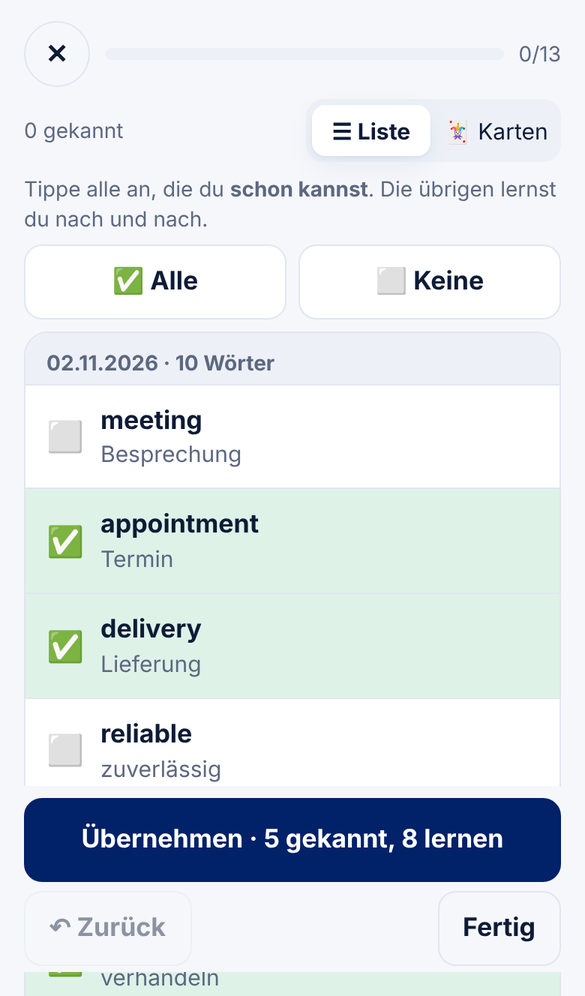
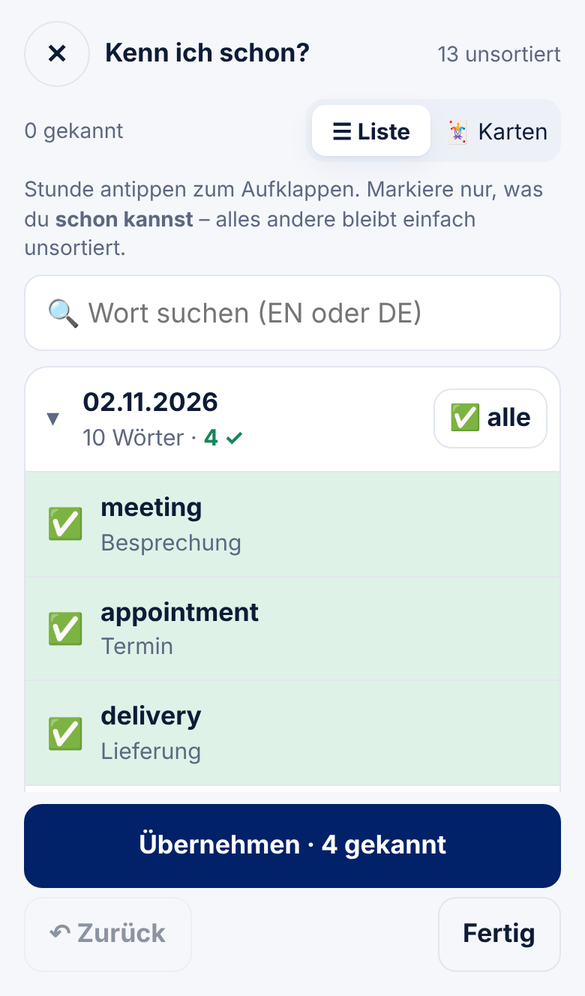
Kenn ich schon?: aufklappbare Übersicht aller Stunden, Suche, nur Markiertes übernehmen (1.20.0)
Claude-Session: https://claude.ai/code/session_01NT1ALs94kcrP3oXjQENRP2

diff --git a/pocketbase/pb_public/index.html b/pocketbase/pb_public/index.html
@@ -146,7 +146,7 @@ details summary{cursor:pointer;font-weight:700;padding:6px 0}
 <script src="pocketbase.umd.js"></script>
 <script>
 'use strict';
-const APP_VERSION='1.19.1 (06.11.2026)';
+const APP_VERSION='1.20.0 (06.11.2026)';
 /* ---------- helpers ---------- */
 const $=(s,r=document)=>r.querySelector(s);
 const $$=(s,r=document)=>[...r.querySelectorAll(s)];
@@ -1261,7 +1261,7 @@ function startSort(opt={}){
   const q=sortItems(opt.lid);
   if(!q.length)return toast(opt.lid?'In dieser Stunde ist schon alles sicher':'Keine ungeübten Wörter zum Vorsortieren');
   freshAudio();
-  S.sort={q,idx:0,hist:[],known:0,show:false,mode:opt.lid?'list':(set().sortMode||'list'),lid:opt.lid||null,sel:new Set(),pageSize:opt.lid?q.length:SORT_PAGE};
+  S.sort={q,idx:0,hist:[],known:0,show:false,mode:opt.lid?'list':(set().sortMode||'list'),lid:opt.lid||null,sel:new Set(),pageSize:opt.lid?q.length:SORT_PAGE,selK:new Set(),open:new Set(),qry:''};
   if(opt.lid)q.forEach((_,i)=>S.sort.sel.add(i)); // ganze Stunde: alles vormarkiert, nur Unbekanntes abwählen
   render();
 }
@@ -1281,7 +1281,45 @@ function sortApply(){
 function sortUndo(){
   const s=S.sort;const h=s.hist.pop();if(!h)return;
   for(const [lid,wid,old] of h.touched.slice().reverse()){if(old)S.progress[lid].w[wid]=old;else delete S.progress[lid].w[wid];Store.saveProgress(lid)}
-  s.known-=h.known;s.idx-=h.count;s.sel=new Set(h.sel||[]);s.show=false;render();
+  s.known-=h.known;
+  if(h.selK){s.q=sortItems();s.idx=0;s.selK=new Set(h.selK);render();return}
+  s.idx-=h.count;s.sel=new Set(h.sel||[]);s.show=false;render();
+}
+/* Übersicht aller Stunden (aufklappbar) – nur markierte Wörter werden übernommen */
+const sKey=it=>it.lid+'|'+it.w.id;
+function sortGroups(s){
+  const by=new Map();const q=normAns(s.qry||'','de');
+  for(const it of s.q){if(q&&!(normAns(it.w.en,'en').includes(q)||normAns(it.w.de,'de').includes(q)||it.w.en.toLowerCase().includes(q)))continue;
+    if(!by.has(it.lid))by.set(it.lid,[]);by.get(it.lid).push(it)}
+  return lessonsSorted().filter(l=>by.has(l.id)).map(l=>({l,items:by.get(l.id)}));
+}
+function sortAccHtml(s){
+  const gs=sortGroups(s);if(!gs.length)return `<p class="muted center" style="padding:20px 0">${s.qry?'Nichts gefunden':'Keine Wörter mehr zum Sortieren'}</p>`;
+  return gs.map(({l,items})=>{const open=s.qry||s.open.has(l.id);const k=items.filter(it=>s.selK.has(sKey(it))).length;const all=k===items.length;
+    return `<div class="list" style="margin-bottom:8px">
+      <div class="li" style="padding:0;min-height:52px;gap:0"><button class="grow" data-act="sortopen" data-v="${l.id}" style="all:unset;flex:1;min-width:0;padding:12px 14px;cursor:pointer;display:flex;align-items:center;gap:10px">
+        <span style="width:14px;flex:none;color:var(--muted)">${open?'▾':'▸'}</span><span style="min-width:0"><div class="en">${esc(l.name)}</div><div class="de">${items.length} ${items.length===1?'Wort':'Wörter'}${k?` · <b style="color:var(--ok)">${k} ✓</b>`:''}</div></span></button>
+        <button class="btn ghost" style="min-height:40px;margin-right:8px;padding:6px 10px;flex:none" data-act="sortlall" data-v="${l.id}">${all?'⬜ keine':'✅ alle'}</button></div>
+      ${open?items.map(it=>{const on=s.selK.has(sKey(it));return `<button class="li" data-act="sortk" data-v="${sKey(it)}" style="min-height:50px;${on?'background:var(--ok-soft)':''}"><span style="font-size:20px;width:24px;flex:none">${on?'✅':'⬜'}</span><span class="grow" style="min-width:0"><div class="en">${esc(it.w.en)}</div><div class="de">${esc(it.w.de)}</div></span></button>`}).join(''):''}
+    </div>`}).join('');
+}
+function sortFootHtml(s){const n=s.selK.size;
+  return `<button class="btn pri full" style="min-height:56px" data-act="sortapplyk" ${n?'':'disabled'}>${n?`Übernehmen · ${n} gekannt`:'Tippe an, was du schon kannst'}</button>
+    <div class="row" style="margin-top:6px"><button class="btn ghost" data-act="sortundo" ${s.hist.length?'':'disabled'}>↶ Zurück</button><div class="grow"></div><button class="btn ghost" data-act="sortend">Fertig</button></div>`}
+function sortAccUpdate(){const s=S.sort;const a=$('#sortacc'),f=$('#sortfoot');if(!a||!f)return render();a.innerHTML=sortAccHtml(s);f.innerHTML=sortFootHtml(s)}
+function viewSortAcc(s){
+  return `<div class="ses">${sortHead(s)}
+    <p class="small muted" style="margin:0 0 8px">Stunde antippen zum Aufklappen. Markiere nur, was du <b>schon kannst</b> – alles andere bleibt einfach unsortiert.</p>
+    <input class="t" id="sortq" type="search" placeholder="🔍 Wort suchen (EN oder DE)" value="${esc(s.qry||'')}" style="margin-bottom:10px" autocomplete="off">
+    <div id="sortacc">${sortAccHtml(s)}</div>
+    <div id="sortfoot" style="position:sticky;bottom:-16px;background:var(--bg);padding:8px 0 calc(16px + env(safe-area-inset-bottom));margin-bottom:-16px">${sortFootHtml(s)}</div>
+  </div>`;
+}
+function sortApplyK(){
+  const s=S.sort;const touched=[];let k=0;
+  for(const it of s.q)if(s.selK.has(sKey(it))){touched.push(...setProg(it.lid,it.w.id,knownProg()));k++}
+  if(!k)return;s.hist.push({touched,known:k,selK:[...s.selK]});s.known+=k;s.selK=new Set();s.q=sortItems();s.idx=0;
+  Store.flushProgress();toast(`${k} Wörter als gekannt markiert`);const el=$('.ses'),y=el?el.scrollTop:0;render();const e2=$('.ses');if(e2)e2.scrollTop=y;
 }
 function sortDone(s){
   Store.flushProgress();const done=s.idx;
@@ -1292,12 +1330,14 @@ function sortDone(s){
 }
 function sortHead(s){
   const l=s.lid&&S.lessons[s.lid];
-  return `<div class="row" style="padding:14px 0 4px"><button class="btn icon ghost" data-act="sortend" aria-label="Beenden">✕</button><div class="prog"><i style="width:${s.idx/s.q.length*100}%"></i></div><span class="small muted">${s.idx}/${s.q.length}</span></div>
+  const acc=s.mode==='list'&&!s.lid;
+  return `<div class="row" style="padding:14px 0 4px"><button class="btn icon ghost" data-act="sortend" aria-label="Beenden">✕</button>${acc?`<div class="grow"><b>Kenn ich schon?</b></div><span class="small muted">${s.q.length} unsortiert</span>`:`<div class="prog"><i style="width:${s.idx/s.q.length*100}%"></i></div><span class="small muted">${s.idx}/${s.q.length}</span>`}</div>
     <div class="row" style="margin:4px 0 8px"><div class="small muted grow">${s.known} gekannt${l?' · '+esc(l.name):''}</div>
     ${s.lid?'':`<div class="seg" style="width:170px">${[['list','☰ Liste'],['card','🃏 Karten']].map(([v,t])=>`<button data-act="sortmode" data-v="${v}" class="${s.mode===v?'on':''}" style="min-height:34px;padding:4px">${t}</button>`).join('')}</div>`}</div>`;
 }
 function viewSort(){
   const s=S.sort;if(s.idx>=s.q.length)return sortDone(s);
+  if(s.mode==='list'&&!s.lid)return viewSortAcc(s);
   return s.mode==='list'?viewSortList(s):viewSortCard(s);
 }
 function viewSortList(s){
@@ -1311,7 +1351,7 @@ function viewSortList(s){
     <p class="small muted" style="margin:0 0 8px">${s.lid?'Alle Wörter sind markiert – tippe die an, die du <b>noch nicht</b> kannst.':'Tippe alle an, die du <b>schon kannst</b>. Die übrigen lernst du nach und nach.'}</p>
     <div class="row" style="gap:8px;margin-bottom:8px"><button class="btn grow" style="min-height:42px" data-act="sortall">✅ Alle</button><button class="btn grow" style="min-height:42px" data-act="sortnone">⬜ Keine</button></div>
     <div class="list">${rows}</div>
-    <div style="position:sticky;bottom:0;background:var(--bg);padding:8px 0 4px">
+    <div style="position:sticky;bottom:-16px;background:var(--bg);padding:8px 0 calc(16px + env(safe-area-inset-bottom));margin-bottom:-16px">
       <button class="btn pri full" style="min-height:56px" data-act="sortapply">Übernehmen · ${nSel} gekannt${s.lid?'':`, ${n-nSel} lernen`}</button>
       <div class="row" style="margin-top:6px"><button class="btn ghost" data-act="sortundo" ${s.hist.length?'':'disabled'}>↶ Zurück</button><div class="grow"></div><button class="btn ghost" data-act="sortend">Fertig</button></div></div>
   </div>`;
@@ -1765,7 +1805,8 @@ PA.addEventListener('loadedmetadata',plTick);
   if('mediaSession' in navigator)try{navigator.mediaSession.playbackState=PA.paused?'paused':'playing'}catch(e){}}));
 PA.addEventListener('ended',()=>{const P=S.player;if(!P||P.loading||PA.src.startsWith('data:'))return;
   if(P.idx<P.q.length-1){P.idx++;plLoad(true)}else if(P.loop){P.idx=0;if(P.q.length===1){PA.currentTime=0;PA.play().catch(()=>{})}else plLoad(true)}else render()});
-document.addEventListener('input',e=>{if(e.target.id==='plpos'&&PA.duration)PA.currentTime=e.target.value/1000*PA.duration});
+document.addEventListener('input',e=>{if(e.target.id==='sortq'&&S.sort){S.sort.qry=e.target.value.trim();sortAccUpdate();return}
+  if(e.target.id==='plpos'&&PA.duration)PA.currentTime=e.target.value/1000*PA.duration});
 document.addEventListener('wheel',e=>{if(e.target.closest&&e.target.closest('#pltx'))plScrollAt=Date.now()},{passive:true});
 document.addEventListener('touchmove',e=>{if(e.target.closest&&e.target.closest('#pltx'))plScrollAt=Date.now()},{passive:true});
 
@@ -1878,7 +1919,11 @@ document.addEventListener('click',async e=>{
     case 'sortall':{const s=S.sort;for(let i=s.idx;i<Math.min(s.q.length,s.idx+s.pageSize);i++)s.sel.add(i);const y=$('.ses').scrollTop;render();$('.ses').scrollTop=y;break}
     case 'sortnone':{const s=S.sort;for(let i=s.idx;i<s.idx+s.pageSize;i++)s.sel.delete(i);const y=$('.ses').scrollTop;render();$('.ses').scrollTop=y;break}
     case 'sortapply':sortApply();break;
-    case 'sortmode':{S.sort.mode=v;S.sort.show=false;const st=set();if(st.sortMode!==v){st.sortMode=v;Store.saveMeta('settings',st)}render();break}
+    case 'sortapplyk':sortApplyK();break;
+    case 'sortopen':{const o=S.sort.open;if(o.has(v))o.delete(v);else o.add(v);sortAccUpdate();break}
+    case 'sortk':{const k=S.sort.selK;if(k.has(v))k.delete(v);else k.add(v);sortAccUpdate();break}
+    case 'sortlall':{const s=S.sort;const g=sortGroups(s).find(x=>x.l.id===v);if(!g)break;const keys=g.items.map(sKey);const all=keys.every(k=>s.selK.has(k));keys.forEach(k=>all?s.selK.delete(k):s.selK.add(k));if(!all&&!s.qry)s.open.add(v);sortAccUpdate();break}
+    case 'sortmode':{if(S.sort.mode!==v){S.sort.q=sortItems();S.sort.idx=0;S.sort.hist=[];S.sort.selK=new Set()}S.sort.mode=v;S.sort.show=false;const st=set();if(st.sortMode!==v){st.sortMode=v;Store.saveMeta('settings',st)}render();break}
     case 'lessonsort':startSort({lid:S.view.lesson});break;
     case 'probe':startProbe(S.view.lesson);break;
     case 'probeans':probeAnswer(v==='1');break;

diff --git a/README.md b/README.md
@@ -98,7 +98,7 @@ Ein selbst gehosteter Vokabeltrainer fürs Handy, gemacht für Englischkurse: Vo
 - **KI-Stimme (Piper)** für jedes Wort, erzeugt auf deinem Server. 7 frei lizenzierte Stimmen zur Wahl (britisch/amerikanisch, weiblich/männlich) mit **Hörprobe**. Beim Üben bevorzugt *Lehrer* oder *KI* – der zweite Knopf spielt jeweils die andere Stimme.
 - **🏷 Themen** (Technik & Kabel, Vertrieb & Kunden, Meetings, Zahlen & Wirtschaft, Reisen, Sport & Freizeit, Gefühle & Charakter, Gesellschaft, Alltag, Sätze & Grammatik): beim Üben filtern; neue Stunden per **„Themen holen“** über Claude zuordnen.
 - **⚡ Kenn ich schon?** Große Wortbestände schnell vorsortieren – nach Stunden gruppiert:
-  - **Liste** (Standard): 20 Wörter pro Seite, Überschrift je Stunde. Gekannte antippen oder **✅ Alle** und nur die unbekannten wieder abwählen, dann *Übernehmen*. Gekannte kommen erst in 30 Tagen zur Kontrolle.
+  - **Liste** (Standard): alle Stunden als aufklappbare Übersicht mit Wortzahl – auch die ältesten sind direkt erreichbar. Gekannte Wörter antippen oder pro Stunde **✅ alle**, dann *Übernehmen*. Nur Markiertes wird übernommen, der Rest bleibt unsortiert (jederzeit weitermachen). Mit **Suchfeld** (englisch oder deutsch) über alle Stunden. Gekannte kommen erst in 30 Tagen zur Kontrolle.
   - **Karten**: ein Wort nach dem anderen – Knopf oder **wischen** (→ kenn ich, ← lernen).
   - In jeder Stunde: **✓ Als gekannt markieren** (alle Wörter vormarkiert, Unbekanntes abwählen) und **🎯 Stichprobe** (5 Zufallswörter; alle gewusst → auf Wunsch die ganze Stunde als gekannt markieren).
   - „Zurück“ nimmt den letzten Schritt bzw. die letzte Seite zurück.
